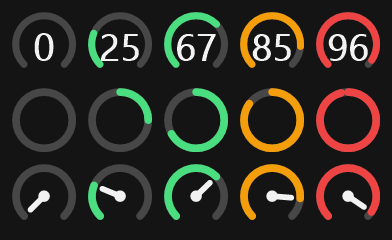
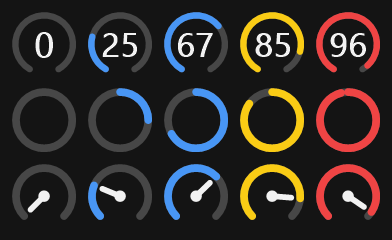
Make Ring and blue the defaults and center tray numbers
- Default to the Ring style and the blue color template
- Widen the Gauge arc and shrink its number to clear the line
- Center digits on their rendered pixels, not the measured outline
- Show the weekly pace as a percentage
- Bump the version to 1.4.2

diff --git a/src/TrayIcon.cs b/src/TrayIcon.cs
@@ -12,6 +12,8 @@ static class TrayIcon
     static readonly Color DarkForeground = Color.FromArgb(32, 32, 32);
     const float DialStart = 135;
     const float DialSweep = 270;
+    const float GaugeStart = 120; // A wider arc than the needle's, so it reads as the same size as the ring.
+    const float GaugeSweep = 300;
     const float RingStart = -90; // The top of the circle.
     const float RingSweep = 360;
     const float MinimumProgress = 0.09f; // Keeps a low value visible at 16 pixels.
@@ -29,9 +31,10 @@ static class TrayIcon
 
             Color color = Theme.ForPercent(percent, stale);
             float progress = percent.HasValue ? Math.Max(0, Math.Min(100, percent.Value)) / 100f : 0;
-            float stroke = style == IconStyle.Gauge ? Math.Max(1.75f, size * 0.11f) : Math.Max(2f, size * 0.12f);
+            float stroke = style == IconStyle.Gauge ? Math.Max(1.5f, size * 0.1f) : Math.Max(2f, size * 0.12f);
 
             if (style == IconStyle.Ring) DrawArc(g, size, stroke, RingStart, RingSweep, progress, color);
+            else if (style == IconStyle.Gauge) DrawArc(g, size, stroke, GaugeStart, GaugeSweep, progress, color);
             else DrawArc(g, size, stroke, DialStart, DialSweep, progress, color);
 
             Color foreground = primary && !stale ? (onLight ? DarkForeground : Theme.Text) : color;
@@ -77,8 +80,9 @@ static class TrayIcon
     {
         string text = percent.HasValue ? percent.Value.ToString(CultureInfo.InvariantCulture) : "?";
         g.PixelOffsetMode = PixelOffsetMode.Default; // The half-pixel shift would blur hinted digits.
-        // Inside the dial, a little low because its opening is at the bottom.
-        RectangleF area = new RectangleF(size * 0.19f, size * 0.32f, size * 0.62f, size * 0.46f);
+        // Inside the dial, leaving a clear gap to the arc on both sides.
+        float width = size * (text.Length > 2 ? 0.7f : 0.56f); // 100 needs the extra room to stay readable.
+        RectangleF area = new RectangleF((size - width) / 2, size * 0.3f, width, size * 0.42f);
 
         using (FontFamily family = new FontFamily(NumberFont))
         using (StringFormat format = (StringFormat)StringFormat.GenericTypographic.Clone())
@@ -92,14 +96,43 @@ static class TrayIcon
                 RectangleF widest = MeasureInk(new string('8', text.Length), family, pixels, format);
                 if (widest.Width > area.Width || widest.Height > area.Height) continue;
 
-                RectangleF ink = MeasureInk(text, family, pixels, format);
-
-                float x = (float)Math.Round(area.X + (area.Width - ink.Width) / 2 - ink.X);
-                float y = (float)Math.Round(area.Y + (area.Height - ink.Height) / 2 - ink.Y);
                 using (Font font = new Font(family, pixels, FontStyle.Bold, GraphicsUnit.Pixel))
+                {
+                    Rectangle ink = RenderedInk(text, font, format, size);
+                    float x = (float)Math.Round((size - ink.Width) / 2f - ink.X);
+                    float y = (float)Math.Round(area.Y + (area.Height - ink.Height) / 2 - ink.Y);
                     g.DrawString(text, font, brush, x, y, format);
+                }
                 return;
             }
+        }
+    }
+
+    // Hinting moves digits away from their measured outline, so centering uses the real pixels.
+    static Rectangle RenderedInk(string text, Font font, StringFormat format, int size)
+    {
+        const int Visible = 100;
+        int origin = size / 2;
+        using (Bitmap canvas = new Bitmap(size * 2, size * 2, PixelFormat.Format32bppArgb))
+        {
+            using (Graphics g = Graphics.FromImage(canvas))
+            {
+                g.TextRenderingHint = TextRenderingHint.AntiAliasGridFit;
+                g.DrawString(text, font, Brushes.White, origin, origin, format);
+            }
+            int left = canvas.Width, top = canvas.Height, right = -1, bottom = -1;
+            for (int y = 0; y < canvas.Height; y++)
+            {
+                for (int x = 0; x < canvas.Width; x++)
+                {
+                    if (canvas.GetPixel(x, y).A < Visible) continue;
+                    left = Math.Min(left, x);
+                    right = Math.Max(right, x);
+                    top = Math.Min(top, y);
+                    bottom = Math.Max(bottom, y);
+                }
+            }
+            return right < 0 ? Rectangle.Empty : Rectangle.FromLTRB(left - origin, top - origin, right + 1 - origin, bottom + 1 - origin);
         }
     }
 

diff --git a/src/Localization.cs b/src/Localization.cs
@@ -64,8 +64,8 @@ static class Localization
         { "historyEmpty", "Fills in as you use Claude Code" },
         { "paceLimit", "At this pace, reaches the limit at {0}" },
         { "paceReset", "At this pace, about {0}% at reset" },
-        { "paceAhead", "{0} points above an even weekly pace" },
-        { "paceBehind", "{0} points below an even weekly pace" },
+        { "paceAhead", "{0}% above an even weekly pace" },
+        { "paceBehind", "{0}% below an even weekly pace" },
         { "paceEven", "On an even weekly pace" },
         { "installTitle", "Install " + App.Name },
         { "installPrompt", "This will:\n\n• Install the app for your Windows user only\n• Add Desktop and Start menu shortcuts\n• Start it with Windows\n• Add a status line entry to your Claude Code settings, so it can receive your usage percentages\n\nIt never reads your Claude login or token. You can change or undo all of this later.\n\nInstall now?" },
@@ -133,8 +133,8 @@ static class Localization
         { "historyEmpty", "Aparece conforme você usa o Claude Code" },
         { "paceLimit", "Nesse ritmo, atinge o limite às {0}" },
         { "paceReset", "Nesse ritmo, cerca de {0}% no reinício" },
-        { "paceAhead", "{0} pontos acima do ritmo semanal uniforme" },
-        { "paceBehind", "{0} pontos abaixo do ritmo semanal uniforme" },
+        { "paceAhead", "{0}% acima do ritmo semanal uniforme" },
+        { "paceBehind", "{0}% abaixo do ritmo semanal uniforme" },
         { "paceEven", "No ritmo semanal uniforme" },
         { "installTitle", "Instalar " + App.Name },
         { "installPrompt", "Isto vai:\n\n• Instalar o app só para o seu usuário do Windows\n• Criar atalhos na Área de Trabalho e no menu Iniciar\n• Iniciar junto com o Windows\n• Adicionar uma entrada de status line nas configurações do Claude Code, para receber seus percentuais de uso\n\nO app nunca lê seu login nem seu token do Claude. Tudo isso pode ser alterado ou desfeito depois.\n\nInstalar agora?" },

diff --git a/src/Preview.cs b/src/Preview.cs
@@ -10,7 +10,7 @@ static class Preview
     public static void Render(string directory)
     {
         Directory.CreateDirectory(directory);
-        Theme.Colors = ColorTemplate.Green;
+        Theme.Colors = ColorTemplate.Blue;
         Theme.Panel = PanelTheme.Graphite;
         RenderPanels(directory, Language.English, "en");
         RenderPanels(directory, Language.Portuguese, "pt-BR");
@@ -34,7 +34,7 @@ static class Preview
         using (UsagePanel panel = new UsagePanel(new PanelCallbacks()))
         {
             panel.LoadMascot();
-            panel.SetState(state, IconStyle.Gauge, language, IconsShown.Both);
+            panel.SetState(state, IconStyle.Ring, language, IconsShown.Both);
             Save(panel, Path.Combine(directory, "panel-" + suffix + ".png"));
             panel.ShowSettingsPage();
             Save(panel, Path.Combine(directory, "settings-" + suffix + ".png"));
@@ -44,11 +44,9 @@ static class Preview
             Save(panel, Path.Combine(directory, "update-settings-" + suffix + ".png"));
             panel.ShowMainPage();
             Save(panel, Path.Combine(directory, "update-" + suffix + ".png"));
-            Theme.Colors = ColorTemplate.Blue;
             Theme.Panel = PanelTheme.Black;
             panel.ApplyTheme();
             Save(panel, Path.Combine(directory, "black-" + suffix + ".png"));
-            Theme.Colors = ColorTemplate.Green;
             Theme.Panel = PanelTheme.Graphite;
         }
     }

diff --git a/src/UsagePanel.cs b/src/UsagePanel.cs
@@ -128,8 +128,8 @@ class UsagePanel : Form
 
     void BuildMainPage(PanelCallbacks callbacks)
     {
-        AddStyleChip(IconStyle.Gauge, "gauge", 0, callbacks);
-        AddStyleChip(IconStyle.Ring, "ring", 1, callbacks);
+        AddStyleChip(IconStyle.Ring, "ring", 0, callbacks);
+        AddStyleChip(IconStyle.Gauge, "gauge", 1, callbacks);
         AddStyleChip(IconStyle.Needle, "needle", 2, callbacks);
         updateLink = new PanelTarget();
         updateLink.Bounds = new Rectangle(Px(18), Px(33), Px(224), Px(18));
@@ -169,8 +169,8 @@ class UsagePanel : Form
     void BuildAppearancePage(PanelCallbacks callbacks)
     {
         appearanceTargets.Add(NewRow("\uE72B", "back", 8, delegate { ShowPage(settingsTargets); }));
-        AddColorChip(ColorTemplate.Green, "colorGreen", 0, callbacks);
-        AddColorChip(ColorTemplate.Blue, "colorBlue", 1, callbacks);
+        AddColorChip(ColorTemplate.Blue, "colorBlue", 0, callbacks);
+        AddColorChip(ColorTemplate.Green, "colorGreen", 1, callbacks);
         AddColorChip(ColorTemplate.Purple, "colorPurple", 2, callbacks);
         AddPanelThemeChip(PanelTheme.Graphite, "panelGraphite", 0, callbacks);
         AddPanelThemeChip(PanelTheme.Black, "panelBlack", 1, callbacks);

diff --git a/src/Settings.cs b/src/Settings.cs
@@ -15,8 +15,8 @@ static class Settings
         get
         {
             string value = Read("IconStyle") as string;
-            if ("Ring".Equals(value) || "Outline".Equals(value)) return IconStyle.Ring; // Outline is the older name.
-            return "Needle".Equals(value) ? IconStyle.Needle : IconStyle.Gauge;
+            if ("Gauge".Equals(value)) return IconStyle.Gauge;
+            return "Needle".Equals(value) ? IconStyle.Needle : IconStyle.Ring;
         }
         set { Write("IconStyle", value.ToString()); }
     }
@@ -46,7 +46,7 @@ static class Settings
         get
         {
             ColorTemplate colors;
-            return Enum.TryParse(Read("Colors") as string, out colors) ? colors : ColorTemplate.Green;
+            return Enum.TryParse(Read("Colors") as string, out colors) ? colors : ColorTemplate.Blue;
         }
         set { Write("Colors", value.ToString()); }
     }

diff --git a/src/App.cs b/src/App.cs
@@ -11,7 +11,7 @@ using System.Runtime.InteropServices;
 static class App
 {
     public const string Name = "Claude Usage Taskbar";
-    public const string Version = "1.4.1";
+    public const string Version = "1.4.2";
     public const string Id = "ClaudeUsageTaskbar";
     public const string ExeName = Id + ".exe";
 

diff --git a/README.pt-BR.md b/README.pt-BR.md
@@ -11,8 +11,8 @@ Veja os limites de uso do Claude Code na barra de tarefas do Windows, sem precis
 ## Recursos
 
 - Ícones na barra de tarefas com o percentual de uso de **5 horas** e o **semanal**. Mostre os dois, ou só um
-- Três estilos de ícone: **Velocímetro**, um mostrador com o número dentro, **Círculo**, que enche em sentido horário a partir do topo, e **Ponteiro**, um mostrador com ponteiro
-- Cores por nível: verde, azul ou roxo, mudando em 70% e ficando vermelho em 90%
+- Três estilos de ícone: **Círculo**, que enche em sentido horário a partir do topo, **Velocímetro**, um mostrador com o número dentro, e **Ponteiro**, um mostrador com ponteiro
+- Cores por nível: azul por padrão, ou verde ou roxo, mudando em 70% e ficando vermelho em 90%
 - Ícones sem fundo e painel grafite ou preto
 - Painel escuro com horários de reinício, previsão de ritmo e gráfico de 12 horas com detalhes ao passar o mouse
 - Alertas opcionais em 80% e 90% de um limite

diff --git a/README.md b/README.md
@@ -11,8 +11,8 @@ See your Claude Code usage limits in the Windows taskbar, without opening anythi
 ## Features
 
 - Taskbar icons with your **5-hour** and **weekly** usage percentages. Show both, or only one
-- Three icon styles: **Gauge**, a dial with the number inside, **Ring**, a circle that fills clockwise from the top, and **Needle**, a dial with a pointer
-- Colors by level: green, blue or purple, changing at 70% and turning red at 90%
+- Three icon styles: **Ring**, a circle that fills clockwise from the top, **Gauge**, a dial with the number inside, and **Needle**, a dial with a pointer
+- Colors by level: blue by default, or green or purple, changing at 70% and turning red at 90%
 - Icons with no background, and a graphite or black panel
 - A dark panel with reset times, a pace forecast and a 12-hour chart that shows details on hover
 - Optional alerts at 80% and 90% of a limit

diff --git a/CHANGELOG.md b/CHANGELOG.md
@@ -1,5 +1,11 @@
 # Changelog
 
+## 1.4.2
+
+- Blue is now the default color template, and Ring the default icon style
+- Gauge has a wider arc and a smaller number that stays clear of it
+- The weekly pace is now shown as a percentage
+
 ## 1.4.1
 
 - Slightly stronger blue in the Blue color template
